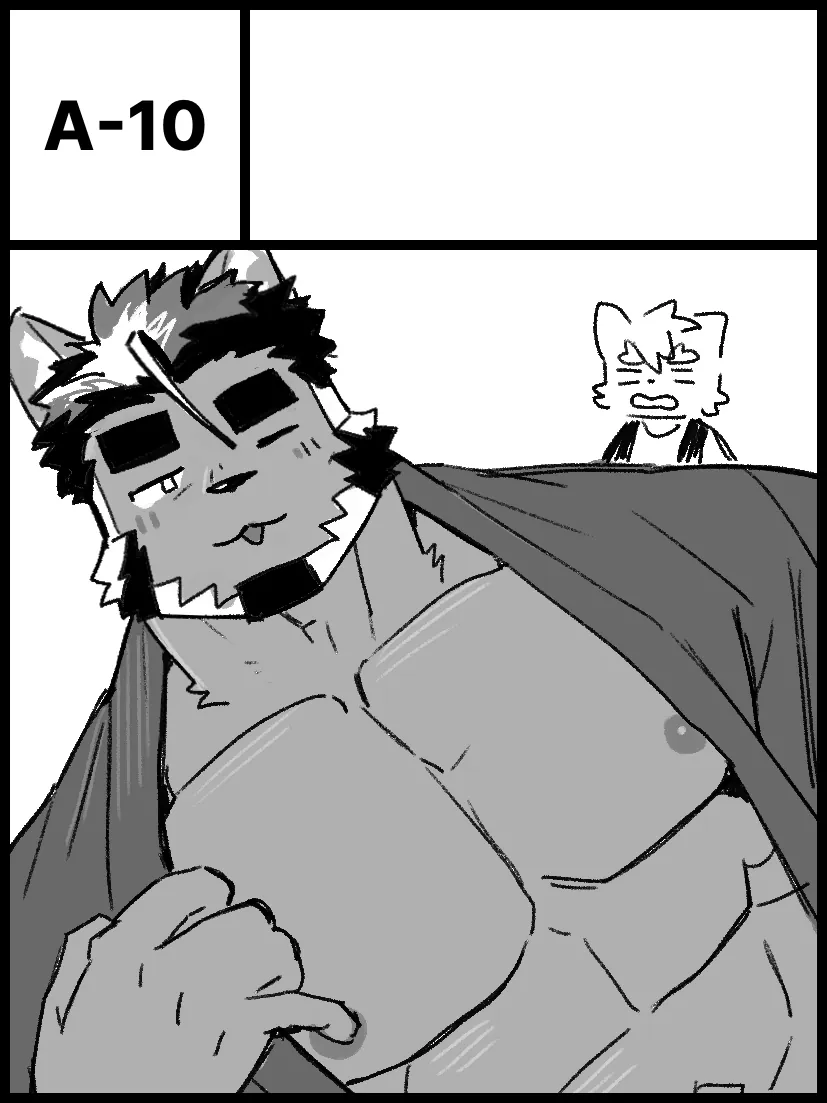
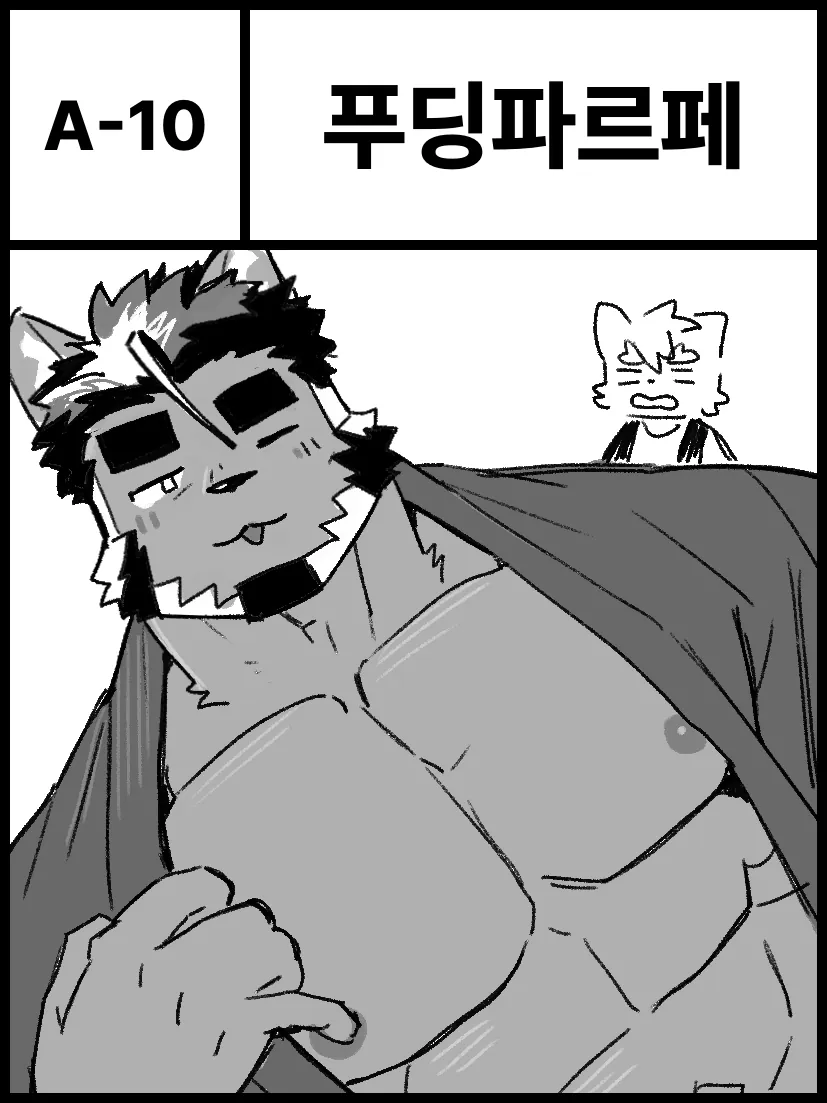
A10·B16·C27 부스컷 빈 제목 칸에 제목 넣기 (#46)
Claude-Session: https://claude.ai/code/session_01UMaSpdyaDECjvNpN6qad7m

Changed region(s): [[0.393, 0.0617, 0.9069, 0.1541]]

diff --git a/sw.js b/sw.js
@@ -4,7 +4,7 @@
 // 또 페이지가 보내준 이미지 목록(precache-images 메시지)을 백그라운드에서 미리 받아 두어서,
 // 처음 접속한 뒤에는 보지 않은 부스의 사진도 오프라인에서 보이게 함.
 // 이미지를 같은 파일명으로 교체했을 때 바로 반영되게 하려면 CACHE_VERSION 을 올리면 됨.
-const CACHE_VERSION = "v4";
+const CACHE_VERSION = "v5";
 const CACHE_NAME = `furstclass-cache-${CACHE_VERSION}`;
 const SHELL_URLS = ["./", "./index.html", "./favicon.png"];
 

diff --git a/tools/make_booth_cuts.py b/tools/make_booth_cuts.py
@@ -26,6 +26,8 @@ MAX_W = 830  # 이보다 넓은 원본(C21 1660px)은 이 너비로 줄임
 MERGED = {"A11": "A11-12", "A12": "A11-12", "A37": "A37-38", "A38": "A37-38",
           "B31": "B31-32", "B32": "B31-32", "C19": "C19-20", "C20": "C19-20"}
 SAME_PICTURE = {"A11-12", "A37-38"}
+# 원본에서 번호 옆 제목 칸이 비어 있는 부스: 예전 공식 부스컷에 적혀 있던 제목을 넣는다(2026-10-05)
+TITLES = {"A10": "푸딩파르페", "B16": "NANKAARU", "C27": "Mr.furshowtime"}
 
 
 def decode_name(name):
@@ -103,7 +105,32 @@ def draw_label(im, cell, font_path):
         size += 1
     font = ImageFont.truetype(font_path, size)
     d.text(((l + r) / 2, (t + b) / 2), label_text(cell), font=font, fill="black", anchor="mm")
+    if cell in TITLES:
+        draw_title(im, box, TITLES[cell], font_path, size)
     return im
+
+
+def draw_title(im, box, title, font_path, label_size):
+    """번호 칸 오른쪽의 빈 제목 칸(검은 선 사이 흰 칸)에 제목을 가운데 맞춰 넣는다."""
+    l, t, r, b = box
+    g = im.convert("L")
+    y = (t + b) // 2
+    x = r
+    while x < im.width and g.getpixel((x, y)) < 128:  # 번호 칸 오른쪽 검은 선
+        x += 1
+    left = x
+    while x < im.width and g.getpixel((x, y)) >= 128:
+        x += 1
+    right = x
+    d = ImageDraw.Draw(im)
+    # 번호 글자의 1.4배까지, 칸 너비의 85% 안에 들어가게
+    size = round(label_size * 1.4)
+    while size > 10:
+        font = ImageFont.truetype(font_path, size)
+        if d.textlength(title, font=font) <= (right - left) * 0.85:
+            break
+        size -= 1
+    d.text(((left + right) / 2, (t + b) / 2), title, font=font, fill="black", anchor="mm")
 
 
 def load(path):

diff --git a/docs/wiki/변경-이력.md b/docs/wiki/변경-이력.md
@@ -4,7 +4,8 @@
 
 | 날짜 | 내용 | 커밋/PR |
 |---|---|---|
-| 2026-10-05 | 부스컷 97개를 고화질 원본으로 교체하고 왼쪽 위에 부스 번호("A-1") 넣음, 부스컷을 모두 webp로 바꿔 용량 정리(원본 약 58MB → 7.8MB) ([문서](기능-부스원과-부스컷.md)) | (이 PR) |
+| 2026-10-05 | 고화질 부스컷 중 제목 칸이 비어 있던 A10·B16·C27에 예전 부스컷과 같은 제목(푸딩파르페, NANKAARU, Mr.furshowtime) 넣음 ([문서](기능-부스원과-부스컷.md)) | (이 PR) |
+| 2026-10-05 | 부스컷 97개를 고화질 원본으로 교체하고 왼쪽 위에 부스 번호("A-1") 넣음, 부스컷을 모두 webp로 바꿔 용량 정리(원본 약 58MB → 7.8MB) ([문서](기능-부스원과-부스컷.md)) | [#45](https://github.com/mononono97/FurryBoothList/pull/45) |
 | 2026-10-05 | 민감한 글 등 링크 카드에 작성 날짜 표시("@아이디 · 2026년 9월 28일", 글 id에서 계산) ([문서](기능-부스-상품-정보.md)) | [#44](https://github.com/mononono97/FurryBoothList/pull/44) |
 | 2026-10-05 | X 약관에 맞춰 X 글 표시 방식 정리: 글 본문·이미지를 저장하거나 직접 그리지 않고 공식 임베드로만 표시(민감한 글은 "X에서 보기" 링크만, 인용 글도 임베드), 행사 안내 탭의 공식 글은 방문자 브라우저가 FxTwitter에서 받지 않고 관리 화면에서 고른 글만 표시, 관리 화면에 "행사 안내 글" 반영·제외 추가 ([문서](기능-부스-상품-정보.md), [문서](기능-배치도와-행사-안내.md)) | [#43](https://github.com/mononono97/FurryBoothList/pull/43) |
 | 2026-10-05 | PC 펼침 상세와 모바일·배치도 창에서 부스 번호·이름을 "[A15] PPP2"처럼 크게 표시하고, PC 펼침 상세는, 부스원 목록을 오른쪽 위 가로줄로 옮김(많으면 두 줄), 부스 상세 창(모바일·배치도 포함)에서 트윗 불러오기 칸과 X 프로필 열기 버튼 삭제 ([문서](기능-부스-목록과-팝오버.md)) | [#42](https://github.com/mononono97/FurryBoothList/pull/42) |

diff --git a/docs/wiki/기능-오프라인-지원과-파비콘.md b/docs/wiki/기능-오프라인-지원과-파비콘.md
@@ -16,7 +16,7 @@
 - 파비콘을 `favicon.ico`로 저장했는데 실제로는 PNG라 브라우저가 표시하지 못해 `favicon.png`로 바꿨습니다.
 
 ## 어떻게 구현했나
-- `sw.js`: 캐시 이름 `furstclass-cache-v4` (`CACHE_VERSION`, 케모켓 때는 `kemoket-cache-v1`).
+- `sw.js`: 캐시 이름 `furstclass-cache-v5` (`CACHE_VERSION`, 케모켓 때는 `kemoket-cache-v1`).
   부스컷(`booth-cuts/`)도 아바타처럼 캐시 우선, 404 응답은 캐시하지 않음. 캐시 구조를 바꾸면 버전을 올려 이전 캐시를 지웁니다.
 - 사진 미리 받기: `index.html`의 `allImageUrls()`가 `BOOTHS`에서 부스컷(`boothCutUrl`)과 부스·부스원 프로필
   사진(`localAvatarUrl`) 경로를 모아 서비스 워커에 `precache-images` 메시지로 보냄(접속할 때마다).
@@ -27,7 +27,7 @@
 
 ## 확인 방법
 1. 사이트 접속 → 개발자 도구(F12) → Application → Service Workers에서 등록 확인
-2. Application → Cache storage → `furstclass-cache-v4`에 `booth-cuts/`, `avatars/` 이미지가 260여 개 들어 있는지 확인
+2. Application → Cache storage → `furstclass-cache-v5`에 `booth-cuts/`, `avatars/` 이미지가 260여 개 들어 있는지 확인
 3. Network 탭에서 Offline 체크 후 새로고침 → 사이트가 뜨는지, 전체 탭에서 B·C구역 부스컷까지 다 보이는지 확인
 
 ## 변경 기록
@@ -38,3 +38,4 @@
 - 2026-10-03 부스컷 여백을 잘라 같은 파일명으로 교체해서 캐시 버전 v3
 - 2026-10-04 처음 접속할 때 부스컷·프로필 사진 전체를 백그라운드에서 미리 받기 (#30)
 - 2026-10-05 부스컷을 webp 고화질로 바꿔 미리 받는 용량이 약 13MB로 늘어남, 캐시 버전 v4
+- 2026-10-05 A10·B16·C27 부스컷에 제목을 넣어 같은 파일명으로 교체해서 캐시 버전 v5

diff --git a/booth-cuts/README.md b/booth-cuts/README.md
@@ -27,4 +27,5 @@ python3 tools/make_booth_cuts.py <원본 폴더> --font Pretendard-ExtraBold.otf
 
 ## 지금 들어 있는 부스컷 (2026-10-05)
 - 고화질 원본(2026.11 청주 부스컷.zip, 101장)에 번호를 넣어 97개 부스를 교체했습니다(대부분 827×1103px, 합계 약 7.8MB).
+- A10, B16, C27은 원본의 제목 칸이 비어 있어 예전 부스컷의 제목을 넣었습니다(스크립트의 `TITLES`).
 - A14, A15는 고화질 원본이 없어 예전 공식 안내 이미지에서 잘라낸 저해상도 이미지를 webp로만 바꿨습니다.
